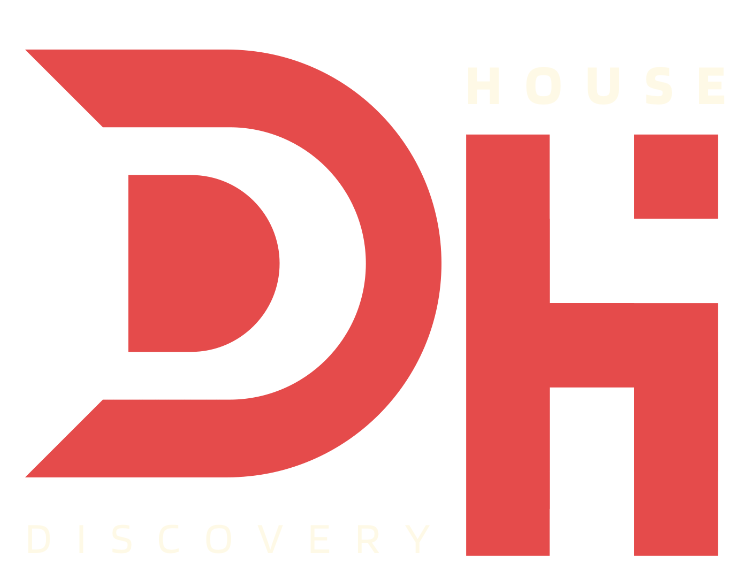
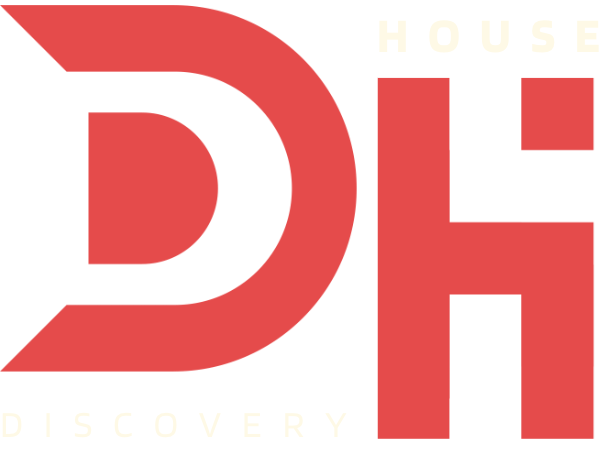
links and routing from all pages to home complete. Component for home link passed in// not styled

diff --git a/client/src/App.css b/client/src/App.css
@@ -2,7 +2,8 @@
   text-align: center;
   background-color: #003049;
   color: #FEF9E6;
-  font-family: 'Antic Slab', serif;;
+  font-family: 'Antic Slab', serif;
+  margin: 0 auto;
 }
 body {
   width: 100%;
@@ -12,16 +13,26 @@ a {
   text-decoration: none;
 }
 
+.home_link {
+  left: 0;
+}
+
 .header_logo {
   width: 25%;
   margin-bottom: 30px;
 }
+
+.logo_container {
+  border-bottom: 1px solid #FEF9E6;
+  margin: 0 auto 30px auto;
+  width: 90%;
+}
+
 .nav_bar {
-  /* display: flex;
-  flex-direction: row;
-  justify-content: space-evenly; */
+  width: 90%;
   display: grid;
   grid-template-columns: 1fr 1fr 1fr 1fr;
+  margin: 45px auto 0 auto;
 }
 
 .nav_tiles {
@@ -35,9 +46,59 @@ a {
   width: 300px ;
 }
 
-footer {
-  position: fixed;
+.footer {
+  height:50px;
+  width: 65%;  
+  text-align:center;
+  display: flex;
+  flex-direction: column;
+  justify-content: center;
   bottom: 0;
-  width: 100%;
-  height: 60px; 
+  left: 0;
+  border-top: 1px solid #FEF9E6;
+  margin-top: 75px;
+}
+
+@media only screen and (max-width: 580px){
+  * {
+    width: 100%;
+  }
+
+  .header_logo {
+    width: 60%;
+    margin-bottom: 15px;
+    padding-bottom: 5px;
+    padding-top: 15px;
+  }
+
+  .logo_container {
+    border-bottom: 1px solid #FEF9E6;
+    margin: 0 auto -15px auto;
+    width: 99%;
+  }
+
+  .nav_bar {
+    display: flex;
+    flex-direction: column;
+  }
+  
+  .nav_tiles {
+    width: 70%;
+    border: 1px solid #FEF9E6;
+    margin-bottom: 15px;
+    border-radius: 16px;
+  }
+  
+  .nav_tiles:hover {
+    filter: brightness(70%);
+    width: 300px ;
+  }
+
+  .footer {
+    height:50px;
+    width: 99%;  
+    border-top: 1px solid #FEF9E6;
+    margin-top: 15px;
+    font-size: 10px;
+  }
 }

diff --git a/client/src/App.js b/client/src/App.js
@@ -1,5 +1,6 @@
 import './App.css'
 import { Routes, Route } from 'react-router-dom'
+import Header from './components/header'
 import About from './pages/about'
 import Contact from './pages/contact'
 import Donate from './pages/donate'
@@ -10,6 +11,7 @@ import Footer from './components/footer'
 function App() {
   return (
     <div className="App">
+      <Header />
       <Routes>
         <Route path="/" element={<Home />} />
         <Route path="/about" element={<About />} />

diff --git a/client/src/pages/home.js b/client/src/pages/home.js
@@ -1,11 +1,11 @@
 import { Link } from 'react-router-dom'
 import Nav from '../components/nav'
+import Header from '../components/header'
 import dh_header from '../elements/dh_header.png'
 
 function Home() {
   return (
     <div className="page">
-      <img src={dh_header} alt="discovery house logo" className="header_logo" />
       <Nav />
     </div>
   )

diff --git a/client/src/components/header.jsx b/client/src/components/header.jsx
@@ -1,0 +1,17 @@
+import dh_header from '../elements/dh_header.png'
+
+function Header() {
+  return (
+    <div className="page">
+      <div className="logo_container">
+        <img
+          src={dh_header}
+          alt="discovery house logo"
+          className="header_logo"
+        />
+      </div>
+    </div>
+  )
+}
+
+export default Header

diff --git a/client/src/components/homeLink.jsx b/client/src/components/homeLink.jsx
@@ -1,0 +1,11 @@
+import {NavLink} from 'react-router-dom'
+
+function HomeLink() {
+  return (
+    <div>
+      <NavLink to='/' className='home_link'>Home</NavLink>
+    </div>
+  )
+}
+
+export default HomeLink

diff --git a/client/src/pages/contact.js b/client/src/pages/contact.js
@@ -1,6 +1,9 @@
+import HomeLink from '../components/homeLink'
+
 function Contact() {
   return (
     <div className="page">
+      <HomeLink />
       <h1>This is the Contact page</h1>
     </div>
   )

diff --git a/client/src/pages/donate.js b/client/src/pages/donate.js
@@ -1,6 +1,9 @@
+import HomeLink from '../components/homeLink'
+
 function Donate() {
   return (
     <div className="page">
+      <HomeLink />
       <h1>This is the Donate page</h1>
     </div>
   )

diff --git a/client/src/pages/links.js b/client/src/pages/links.js
@@ -1,6 +1,9 @@
+import HomeLink from '../components/homeLink'
+
 function Links() {
   return (
     <div className="page">
+      <HomeLink />
       <h1>This is the Links page</h1>
     </div>
   )

diff --git a/client/src/pages/about.js b/client/src/pages/about.js
@@ -1,6 +1,8 @@
+import HomeLink from '../components/homeLink'
 function About() {
   return (
     <div className="page">
+      <HomeLink />
       <h1>This is the About page</h1>
     </div>
   )

diff --git a/client/src/components/footer.jsx b/client/src/components/footer.jsx
@@ -1,6 +1,6 @@
 function Footer() {
   return (
-    <div className="page">
+    <div className="footer">
       <footer>©2022 Joshua Langner · All Rights Reserved</footer>
     </div>
   )
